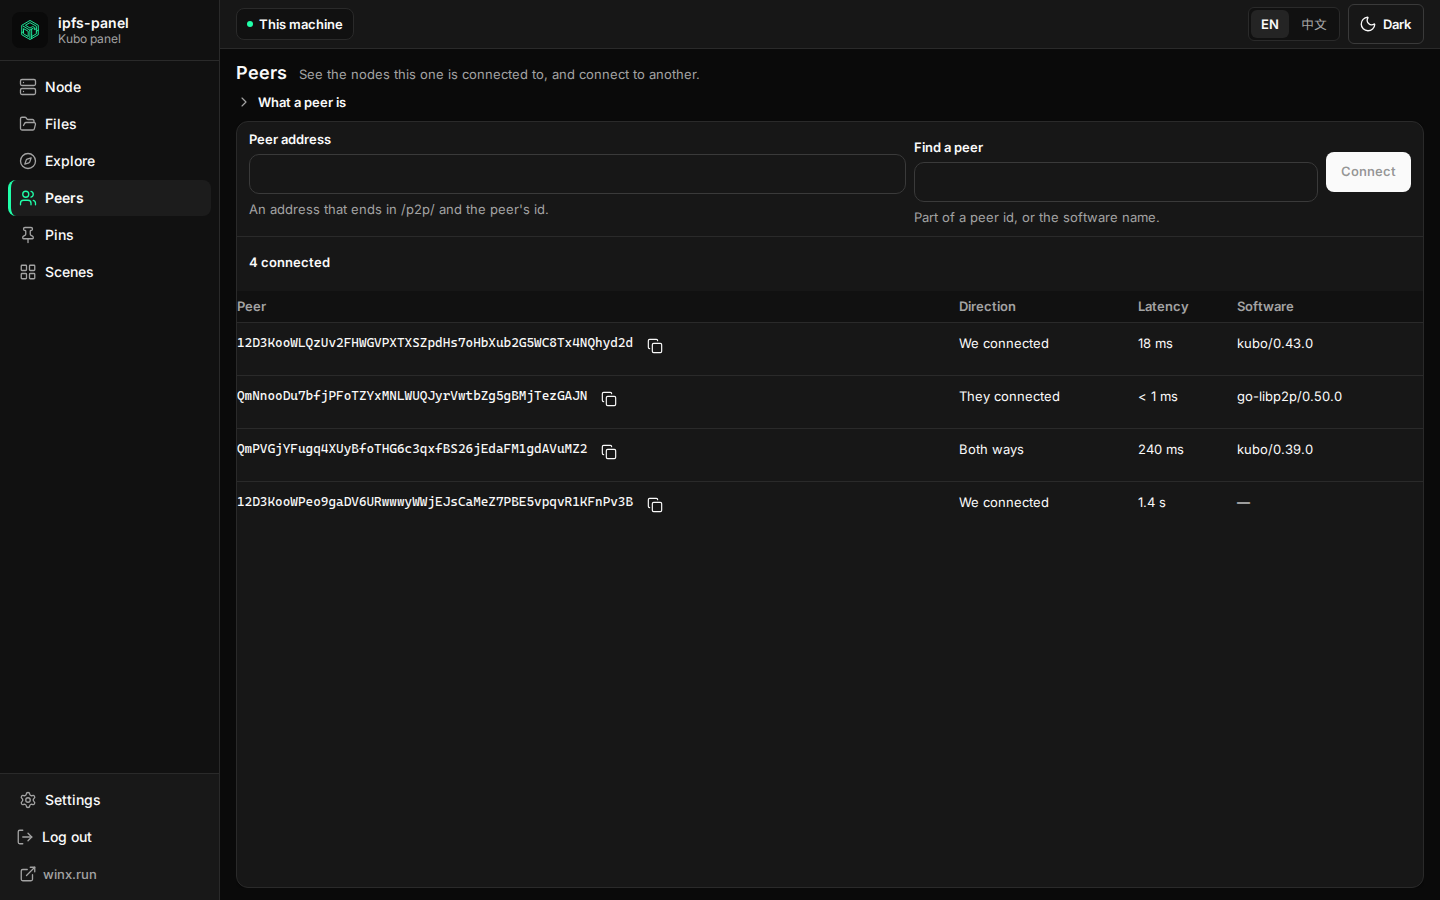
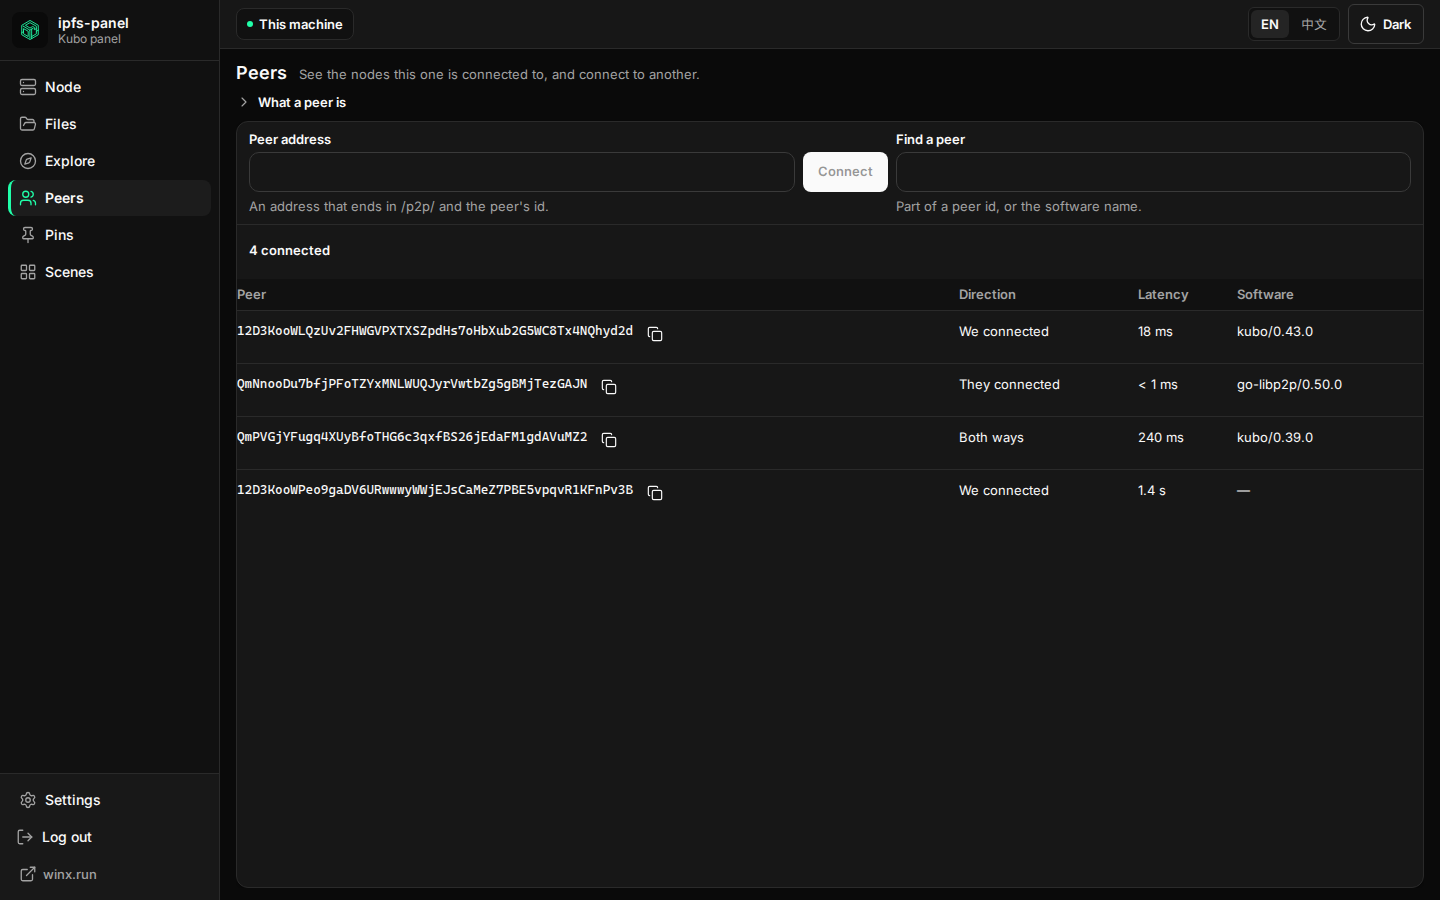
fix: align the peers toolbar on one baseline
The search field carried an extra top margin and the connect button used a fixed offset, so the controls did not share a line. Both inputs are now 40px, labels share one line, hints share the next, and the button sits on the address input.

diff --git a/apps/web/src/styles/peers.css b/apps/web/src/styles/peers.css
@@ -7,26 +7,63 @@
 }
 
 .peers-toolbar {
-  display: grid;
-  grid-template-columns: minmax(0, 1.3fr) minmax(160px, 0.8fr) auto;
+  --peers-label: 18px;
+  --peers-field-gap: 4px;
+  display: flex;
+  align-items: flex-start;
   gap: 8px;
-  align-items: start;
   margin: 0;
   padding: 8px 12px;
   border-bottom: 1px solid var(--border);
 }
 
-.peers-toolbar:not(:has(.peers-filter)) {
-  grid-template-columns: minmax(0, 1fr) auto;
+.peers-address,
+.peers-filter {
+  display: flex;
+  flex-direction: column;
+  gap: var(--peers-field-gap);
+  min-width: 0;
+  margin: 0;
 }
 
-.peers-address,
-.peers-filter .ui-field {
-  width: 100%;
+.peers-address {
+  flex: 1.35 1 0;
+}
+
+.peers-filter {
+  flex: 0.8 1 12rem;
+}
+
+.peers-toolbar .ui-field-label {
+  height: var(--peers-label);
+  line-height: var(--peers-label);
+}
+
+.peers-toolbar .ui-field-hint,
+.peers-toolbar .ui-field-error {
+  min-height: 20px;
+  margin: 0;
+  line-height: 20px;
+}
+
+.peers-toolbar .ui-input-wrap {
+  display: flex;
+  height: 40px;
+}
+
+.peers-toolbar .ui-input {
+  height: 40px;
+  min-height: 40px;
+  padding-block: 0;
 }
 
 .peers-connect {
-  margin-top: 22px;
+  flex: none;
+  align-self: flex-start;
+  width: auto;
+  height: 40px;
+  min-height: 40px;
+  margin: calc(var(--peers-label) + var(--peers-field-gap)) 0 0;
 }
 
 .peers-list-meta {
@@ -58,11 +95,6 @@
   margin: 0;
   color: var(--danger);
   line-height: var(--leading-body);
-}
-
-.peers-filter {
-  flex: 1 1 220px;
-  margin-top: 8px;
 }
 
 .peers-loading {
@@ -170,12 +202,15 @@
 
 @media (max-width: 719px) {
   .peers-toolbar {
-    grid-template-columns: 1fr;
+    flex-wrap: wrap;
   }
 
-  .peers-connect {
-    margin-top: 0;
-    width: 100%;
+  .peers-address {
+    flex: 1 1 auto;
+  }
+
+  .peers-filter {
+    flex: 1 1 100%;
   }
 
   .peers-table {

diff --git a/apps/web/src/views/PeersView.vue b/apps/web/src/views/PeersView.vue
@@ -224,6 +224,9 @@ onUnmounted(() => {
             :hint="t('peersAddressHint')"
             :error="fieldError"
           />
+          <Button class="peers-connect" type="submit" variant="primary" :disabled="!canConnect">
+            {{ connecting ? t('peersConnecting') : t('peersConnect') }}
+          </Button>
           <Input
             v-if="store.peers.length > 0"
             v-model="query"
@@ -235,9 +238,6 @@ onUnmounted(() => {
             :hint="t('peersFilterHint')"
             @keydown.escape="query = ''"
           />
-          <Button class="peers-connect" type="submit" variant="primary" :disabled="!canConnect">
-            {{ connecting ? t('peersConnecting') : t('peersConnect') }}
-          </Button>
         </form>
         <p v-if="connectError" class="peers-problem" role="alert">{{ connectError }}</p>
         <p v-else-if="store.status === 'ready' && store.peers.length === 0" class="peers-empty">{{ t('peersEmpty') }}</p>

diff --git a/docs/HANDOFF.md b/docs/HANDOFF.md
@@ -34,7 +34,7 @@ These are settled. Do not reopen them without a reason and a pull request that s
 - **Scenes are four named setups.** `quiet`, `share`, `pinset`, and `gateway`. The keys, the restart rule, and the read-only public gateway exception are in `docs/design/scenes.md`. The control API stays loopback.
 - **Explore looks inside one content ID.** The manager calls `dag/resolve` and `dag/get` on loopback. The browser does not fetch the gateway and does not receive the RPC address. The spec is `docs/design/explore.md`.
 - **Peers is a table and a one-time dial.** The manager calls `swarm/peers` and `swarm/connect` on loopback. Connected peer addresses stay off the browser. There is no map, and the page does not write `Peering.Peers`. The spec is `docs/design/peers.md`.
-- **The panel uses the winx.run visual language, at ops-panel density.** `docs/DESIGN-SYSTEM.md`. Paper gray, white cards, black primary buttons (near-white in the dark theme, including when disabled), firefly green (`#20FFA9`) only for the mark, the selected bar, and small tags. The light sidebar is white; the dark selected row is a neutral lift plus that bar, not a green block. The main column fills the window: a toolbar and a list or property surface that starts under the title and runs to the bottom. Ops pages are a flex column so a closed disclosure cannot shove the surface down. The node surface adds the current pins and a few connected peers from the existing APIs, and sizes to content when the node is stopped. Peers connect sits on that list. shadcn-vue (Nova, themed) plus Motion. Not a charcoal 1Panel clone, not IPFS webui teal, and not a mint wash. Do not restyle it back.
+- **The panel uses the winx.run visual language, at ops-panel density.** `docs/DESIGN-SYSTEM.md`. Paper gray, white cards, black primary buttons (near-white in the dark theme, including when disabled), firefly green (`#20FFA9`) only for the mark, the selected bar, and small tags. The light sidebar is white; the dark selected row is a neutral lift plus that bar, not a green block. The main column fills the window: a toolbar and a list or property surface that starts under the title and runs to the bottom. Ops pages are a flex column so a closed disclosure cannot shove the surface down. The node surface adds the current pins and a few connected peers from the existing APIs, and sizes to content when the node is stopped. Peers connect sits on that list, on the same baseline as the address input, with search on the other side. shadcn-vue (Nova, themed) plus Motion. Not a charcoal 1Panel clone, not IPFS webui teal, and not a mint wash. Do not restyle it back.
 
 ## What is open
 
